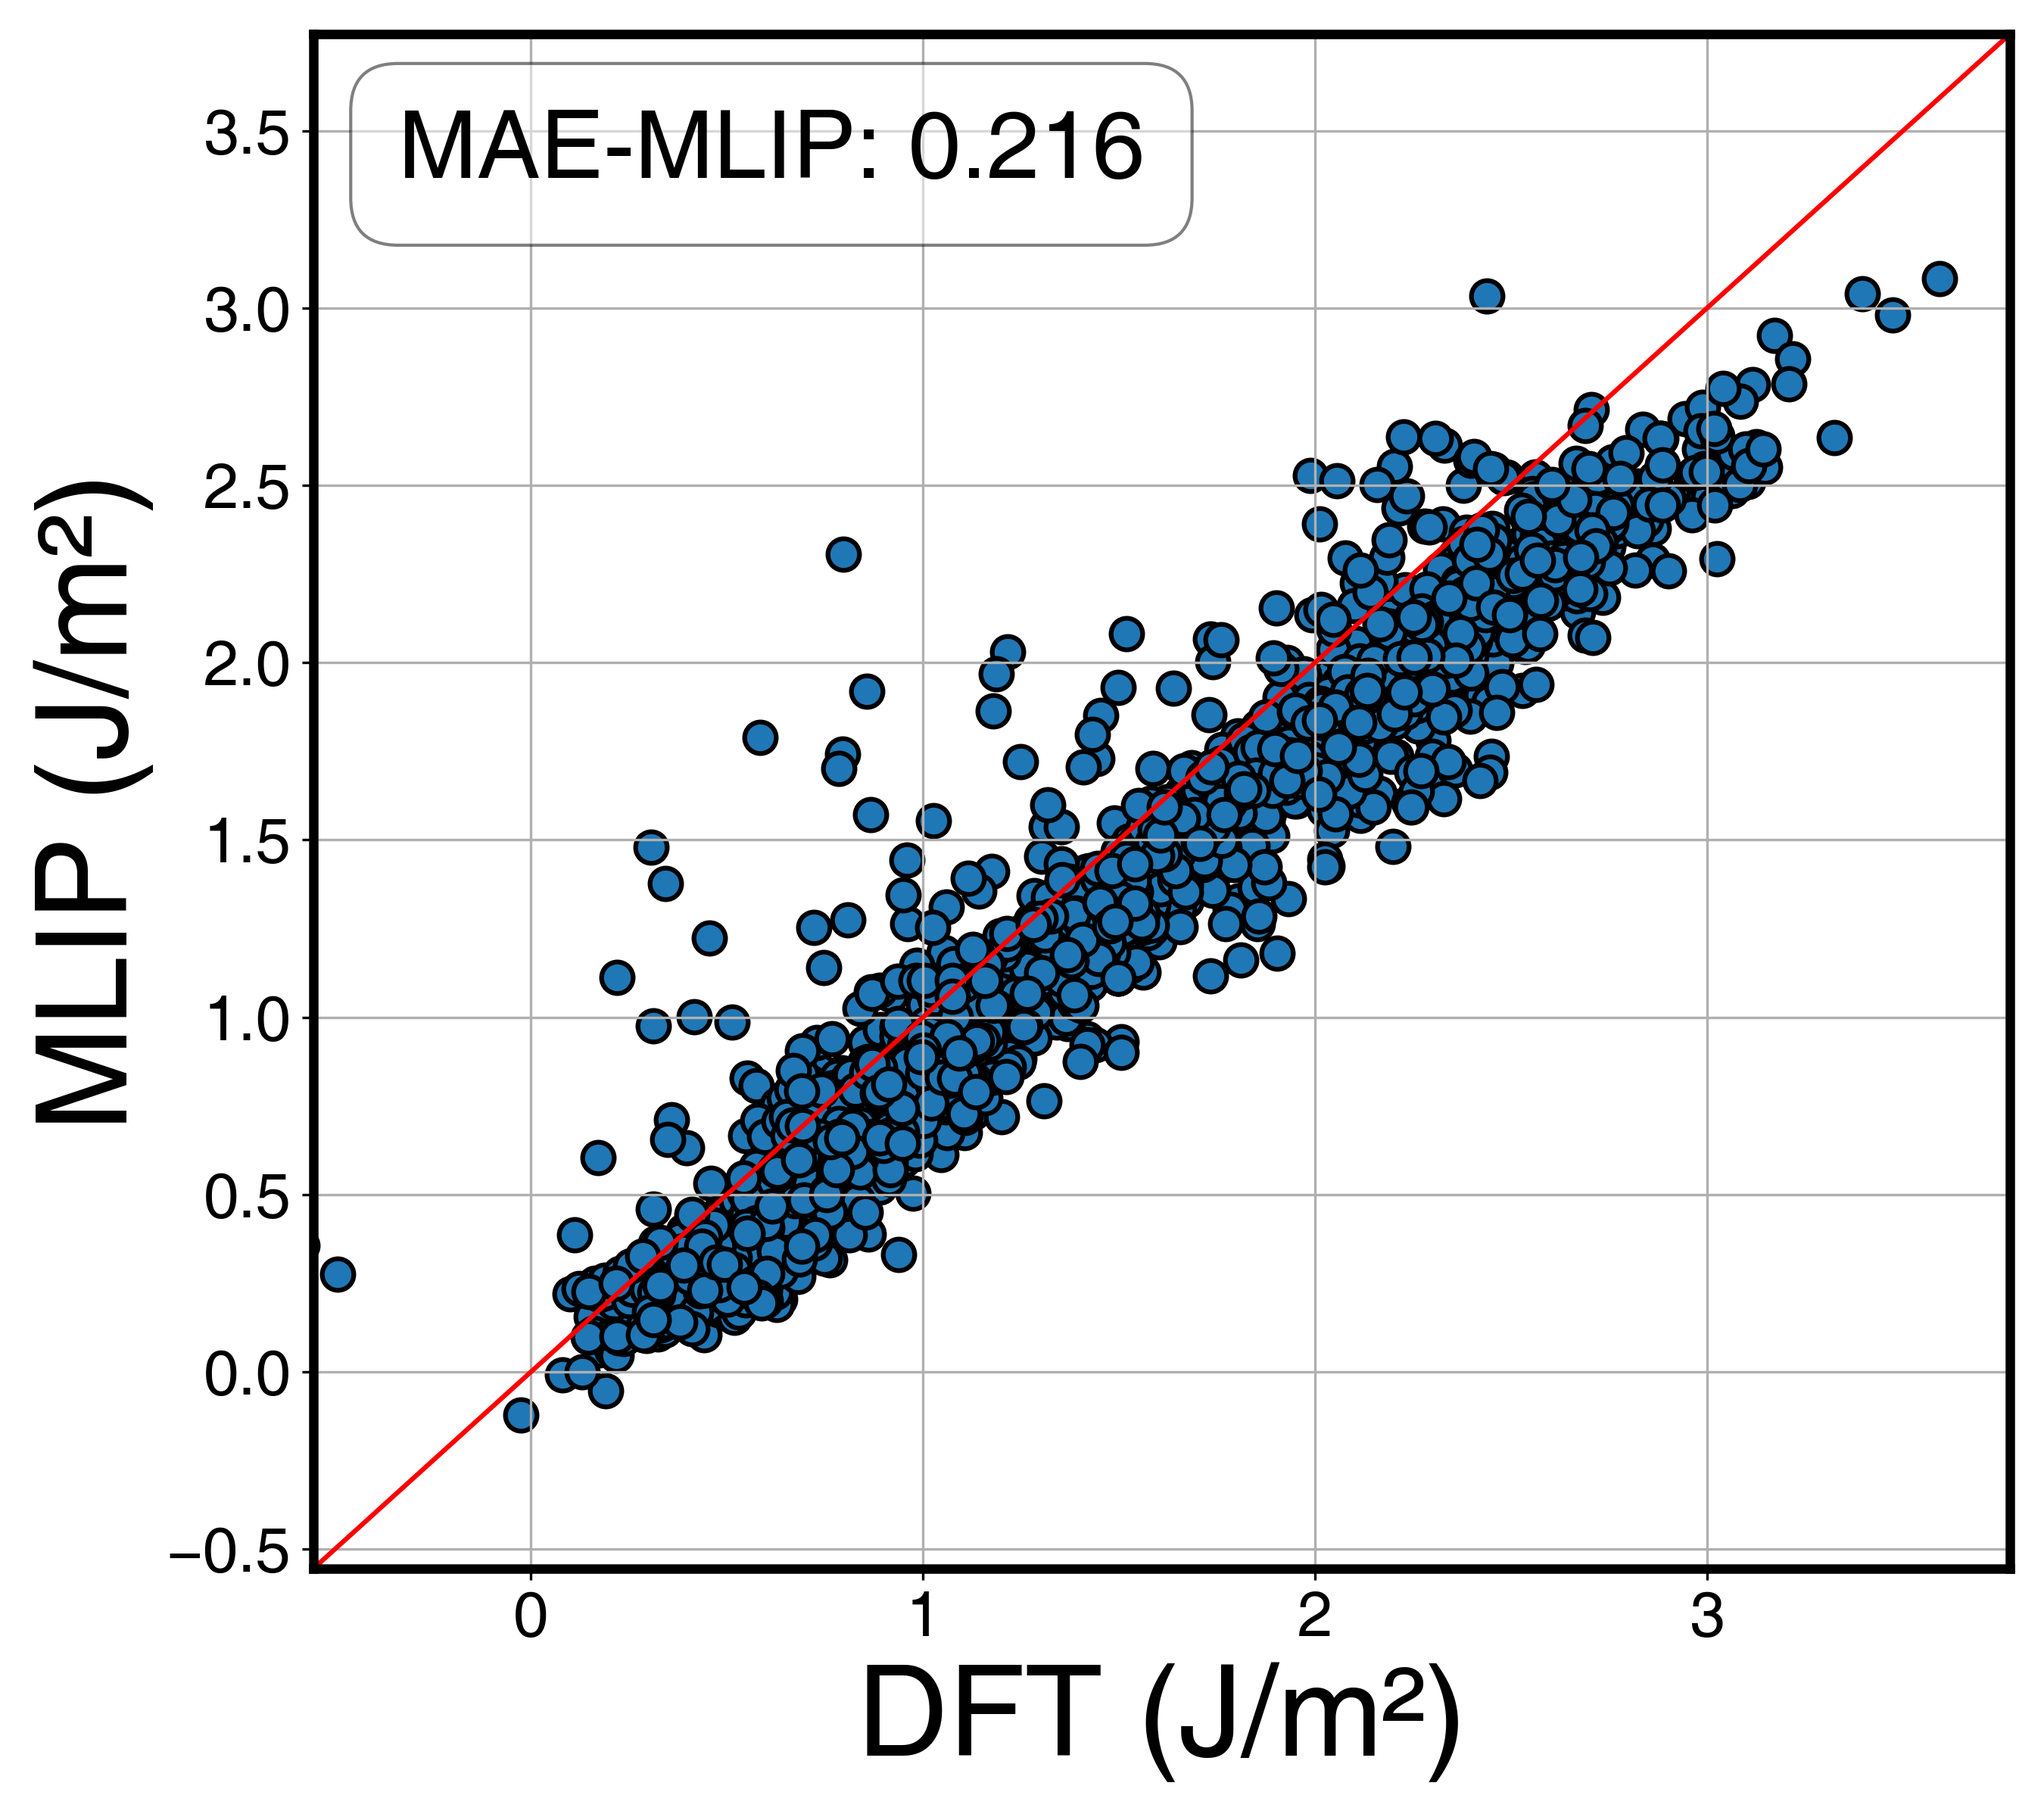
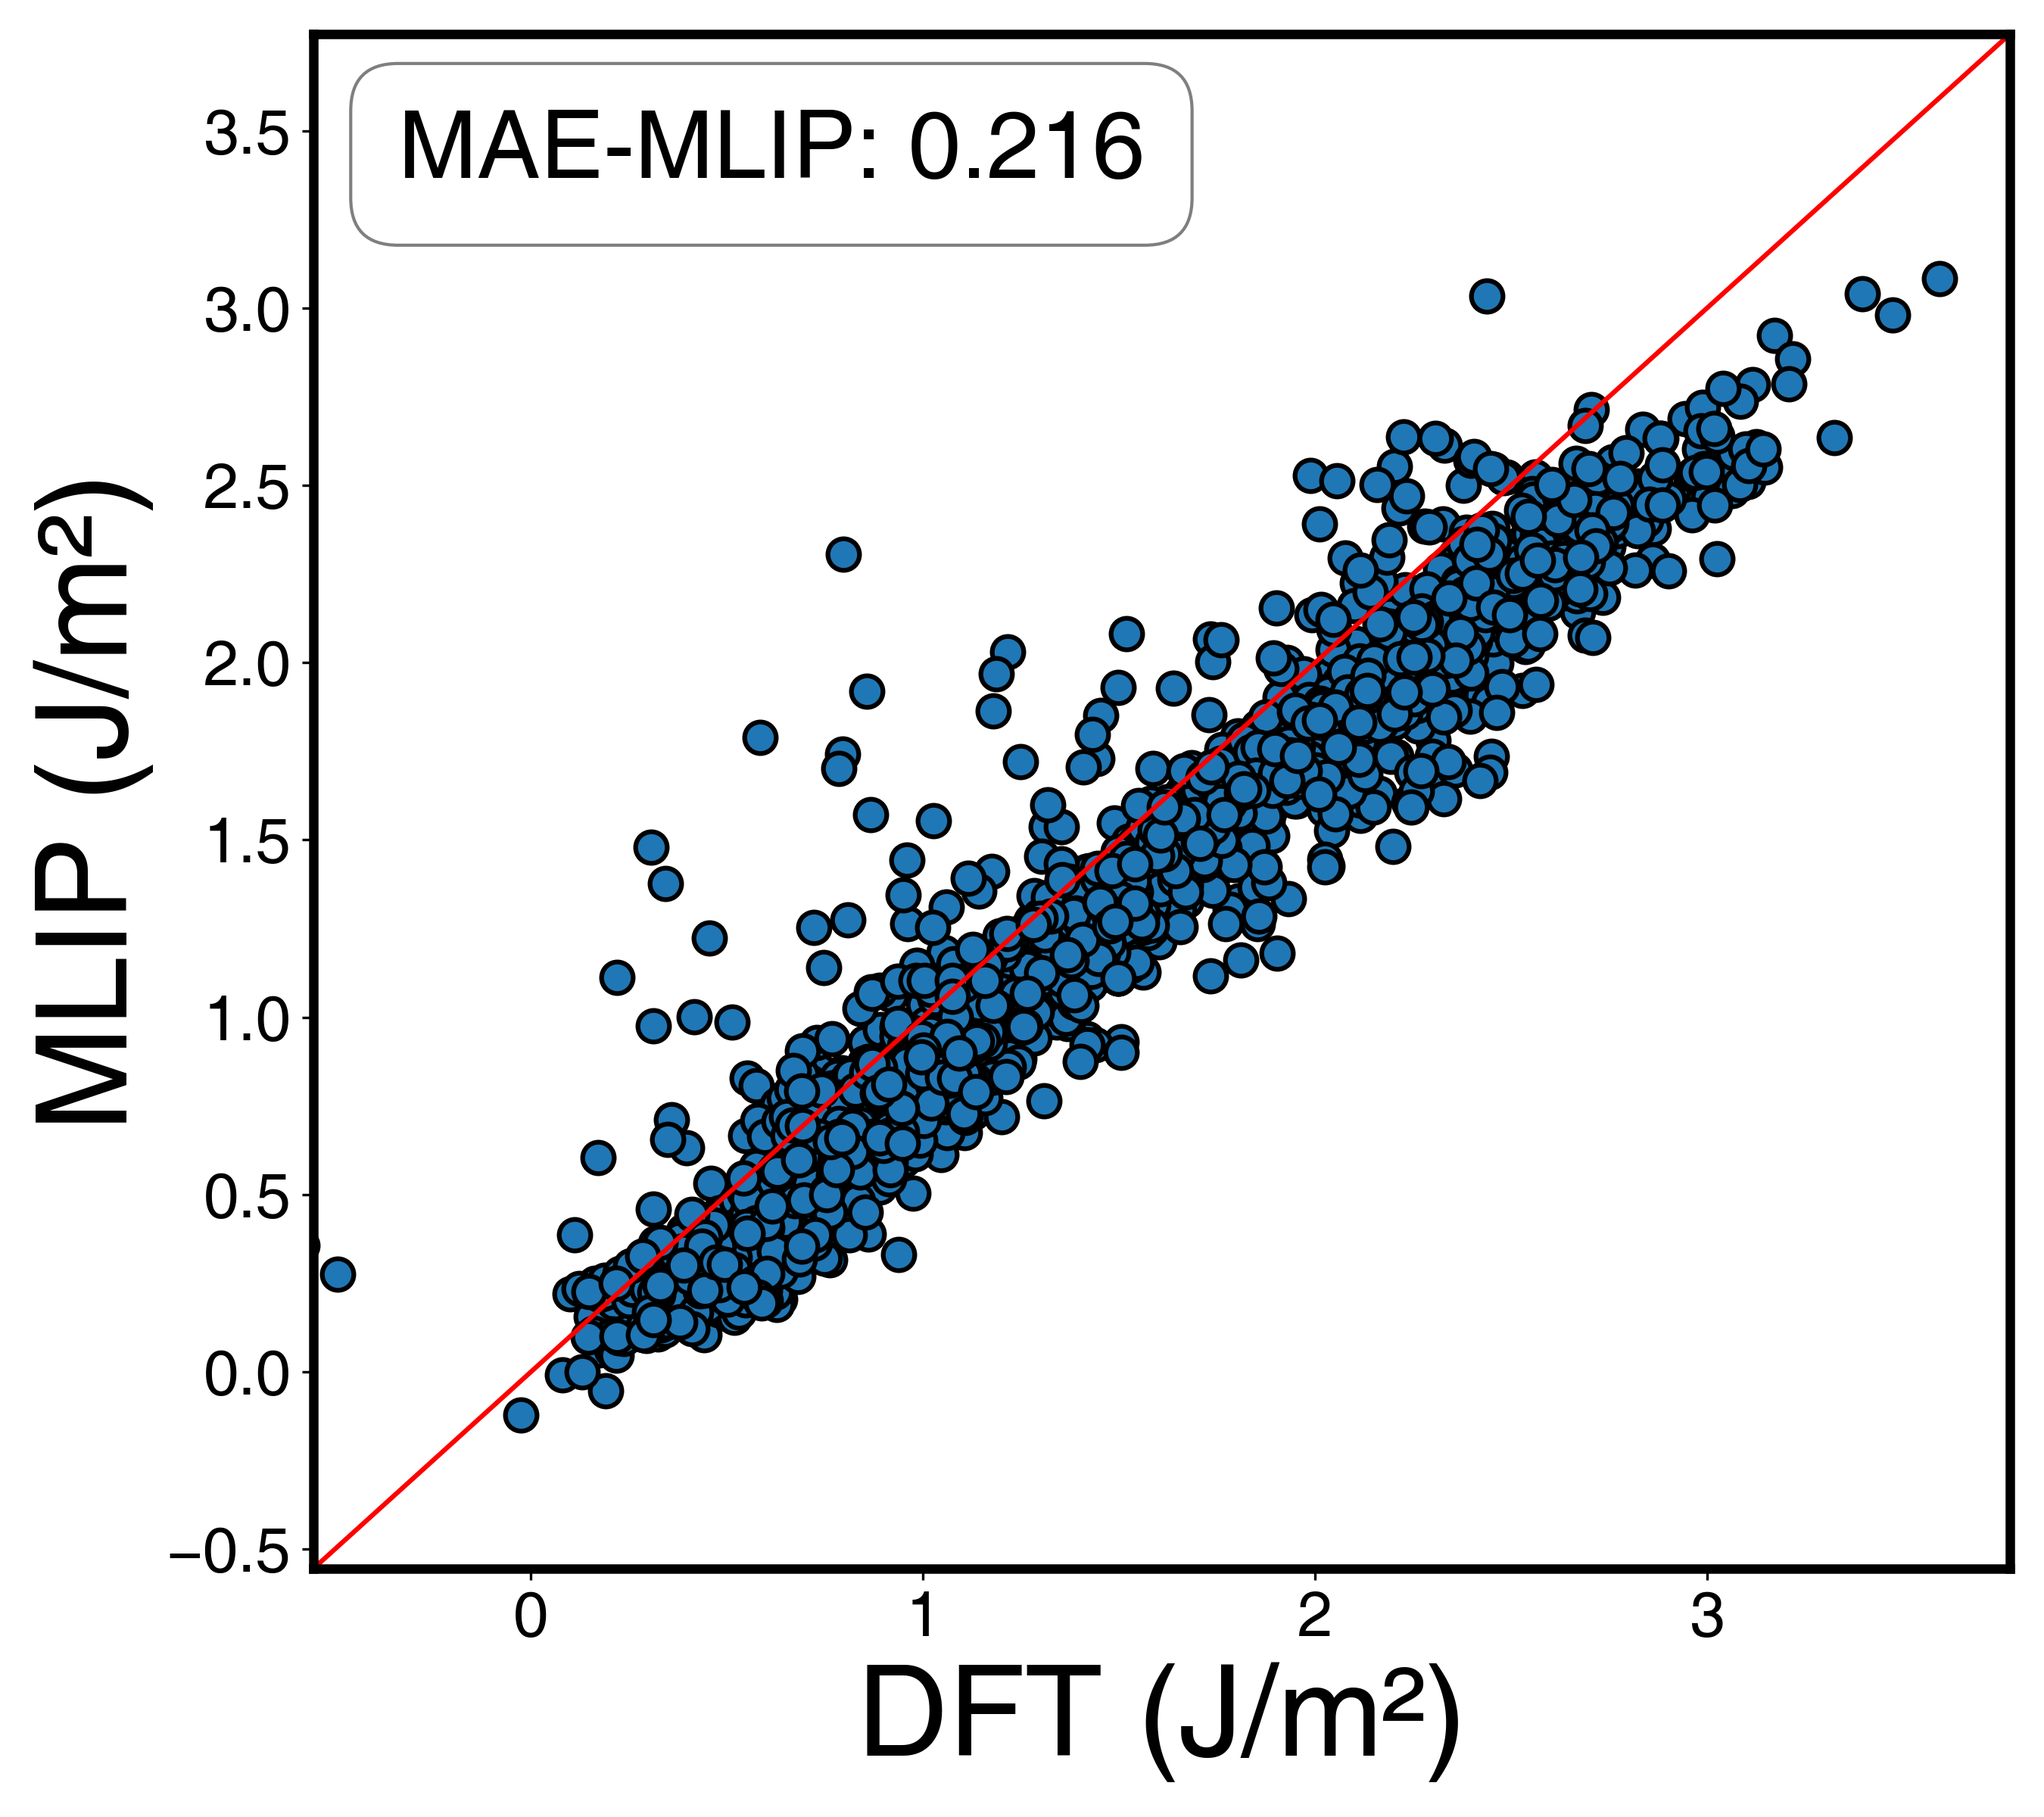
Improve README documentation and implement grid option for RelativeEnergyAnalysis
- Remove redundant Output Files hierarchy sections from README for cleaner documentation
- Add Time/step column to performance comparison tables with computational cost metrics
- Add ADwT/AMDwT explanations and metrics to Individual MLIP sheets
- Increase image widths across all figures for better readability and quality
- Implement grid option for RelativeEnergyAnalysis matching AdsorptionAnalysis functionality
- Add grid parameter to RELATIVE_ANALYSIS_DEFAULTS configuration
- Update RelativeEnergyAnalysis class with grid toggle and documentation
- Remove CLAUDE.md and CLAUDE_SUGGESTIONS.md from git tracking

diff --git a/catbench/relative/analysis.py b/catbench/relative/analysis.py
@@ -38,6 +38,7 @@ class RelativeEnergyAnalysis:
         mark_size (int, optional): Marker size for plots. Default: 100
         linewidths (float, optional): Line width for plots. Default: 1.5
         min/max (float, optional): Manual axis limits for plots
+        grid (bool, optional): Show grid on parity plots. Default: False
         mlip_name_map (dict, optional): Mapping from raw MLIP names to display names for plots/Excel. Default: {} (no mapping)
     """
     
@@ -65,6 +66,7 @@ class RelativeEnergyAnalysis:
         self.specific_color = kwargs.get("specific_color", get_default("specific_color", RELATIVE_ANALYSIS_DEFAULTS))
         self.min_value = kwargs.get("min", get_default("min", RELATIVE_ANALYSIS_DEFAULTS))
         self.max_value = kwargs.get("max", get_default("max", RELATIVE_ANALYSIS_DEFAULTS))
+        self.grid = kwargs.get("grid", get_default("grid", RELATIVE_ANALYSIS_DEFAULTS))
         # Display name mapping for MLIP names (for plots/Excel display only)
         self.mlip_name_map = kwargs.get("mlip_name_map", get_default("mlip_name_map", RELATIVE_ANALYSIS_DEFAULTS)) or {}
         
@@ -140,7 +142,10 @@ class RelativeEnergyAnalysis:
         ax.set_xlim(min_value, max_value)
         ax.set_ylim(min_value, max_value)
         ax.plot([min_value, max_value], [min_value, max_value], "r-")
-        ax.grid(True)
+        if self.grid:
+            ax.grid(True)
+        else:
+            ax.grid(False)
         
         for spine in ax.spines.values():
             spine.set_linewidth(3)

diff --git a/catbench/config.py b/catbench/config.py
@@ -121,6 +121,7 @@ RELATIVE_ANALYSIS_DEFAULTS = {
     "specific_color": "#2077B5",
     "min": None,
     "max": None,
+    "grid": False,
 }
 
 # ============================================================================

diff --git a/README.md b/README.md
@@ -279,27 +279,7 @@ This generates stacked area charts showing how anomaly detection rates change wi
 
 ### Output Files
 
-```
-result/
-├── YourMLIP/
-│   ├── gases/           # Gas molecule calculations
-│   ├── log/             # Optimization logs
-│   ├── traj/            # Trajectory files
-│   ├── YourMLIP_result.json         # All calculation results
-│   ├── YourMLIP_gases.json          # Gas energies
-│   └── YourMLIP_anomaly_detection.json  # Anomaly flags
-└── plot/
-    └── YourMLIP/
-        ├── mono/                     # Single parity plots (all adsorbates combined)
-        │   ├── YourMLIP_parity.png
-        │   └── YourMLIP_normal_parity.png
-        ├── multi/                    # Multiple parity plots (by adsorbate)
-        │   ├── YourMLIP_parity.png
-        │   └── YourMLIP_normal_parity.png
-        └── threshold_sensitivity/    # Threshold sensitivity analysis plots
-            ├── disp_thrs_sensitivity.png
-            └── bond_threshold_sensitivity.png
-```
+Results are automatically saved to organized directories with comprehensive analysis reports, parity plots, and Excel summaries containing detailed performance metrics.
 
 #### 1. Parity Plot Analysis
 
@@ -308,8 +288,8 @@ CatBench generates comprehensive parity plots for visual assessment of MLIP perf
 <div align="center">
 <table>
 <tr>
-<td><img src="assets/mono_plot.png" alt="Mono Plot" width="500"/></td>
-<td><img src="assets/multi_plot.png" alt="Multi Plot" width="500"/></td>
+<td><img src="assets/mono_plot.png" alt="Mono Plot" width="650"/></td>
+<td><img src="assets/multi_plot.png" alt="Multi Plot" width="650"/></td>
 </tr>
 <tr>
 <td align="center"><strong>Mono Plot</strong><br/>All reactions combined in a single parity plot</td>
@@ -327,18 +307,18 @@ MLIP-to-MLIP performance overview with key metrics:
 
 <div style="font-size: 11px;">
 
-| MLIP | Normal (%) | Anomaly (%) | MAE_total (eV) | MAE_normal (eV) | ADwT (%) | AMDwT (%) |
-|------|------------|-------------|----------------|-----------------|----------|-----------|
-| MLIP_A | 77.25 | 14.39 | 1.118 | 0.316 | 77.98 | 84.71 |
-| MLIP_B | 74.22 | 16.84 | 0.667 | 0.512 | 69.66 | 80.80 |
-| MLIP_C | 80.18 | 13.51 | 0.917 | 0.241 | 78.97 | 86.79 |
-| MLIP_D | 73.20 | 16.26 | 0.738 | 0.413 | 71.27 | 81.03 |
-| MLIP_E | 78.45 | 12.87 | 0.892 | 0.298 | 76.15 | 83.92 |
-| ... | ... | ... | ... | ... | ... | ... |
+| MLIP | Normal (%) | Anomaly (%) | MAE_total (eV) | MAE_normal (eV) | ADwT (%) | AMDwT (%) | Time/step (ms) |
+|------|------------|-------------|----------------|-----------------|----------|-----------|----------------|
+| MLIP_A | 77.25 | 14.39 | 1.118 | 0.316 | 77.98 | 84.71 | 125.3 |
+| MLIP_B | 74.22 | 16.84 | 0.667 | 0.512 | 69.66 | 80.80 | 89.7 |
+| MLIP_C | 80.18 | 13.51 | 0.917 | 0.241 | 78.97 | 86.79 | 156.8 |
+| MLIP_D | 73.20 | 16.26 | 0.738 | 0.413 | 71.27 | 81.03 | 203.4 |
+| MLIP_E | 78.45 | 12.87 | 0.892 | 0.298 | 76.15 | 83.92 | 142.1 |
+| ... | ... | ... | ... | ... | ... | ... | ... |
 
 </div>
 
-*Direct performance comparison across all benchmarked MLIPs with comprehensive metrics*
+*Direct performance comparison across all benchmarked MLIPs with comprehensive metrics including ADwT (Accuracy within Threshold) and AMDwT (Anomaly-free Mean Deviation within Threshold)*
 
 ##### **Anomaly Analysis Sheet**
 Detailed breakdown of calculation anomalies by category:
@@ -362,14 +342,14 @@ Adsorbate-specific performance for each MLIP (example from MLIP_A sheet):
 
 <div style="font-size: 11px;">
 
-| Adsorbate | Normal | Anomaly | MAE_normal (eV) | MAE_total (eV) |
-|-----------|--------|---------|-----------------|----------------|
-| H | 1,247 | 89 | 0.234 | 0.891 |
-| OH | 1,156 | 124 | 0.298 | 1.045 |
-| O | 1,089 | 156 | 0.387 | 1.234 |
-| CO | 978 | 203 | 0.445 | 1.567 |
-| NH3 | 892 | 167 | 0.512 | 1.789 |
-| ... | ... | ... | ... | ... |
+| Adsorbate | Normal | Anomaly | MAE_total (eV) | MAE_normal (eV) | ADwT (%) | AMDwT (%) |
+|-----------|--------|---------|----------------|-----------------|----------|-----------|
+| H | 1,247 | 89 | 0.891 | 0.234 | 89.3 | 93.4 |
+| OH | 1,156 | 124 | 1.045 | 0.298 | 82.7 | 87.1 |
+| O | 1,089 | 156 | 1.234 | 0.387 | 78.5 | 82.9 |
+| CO | 978 | 203 | 1.567 | 0.445 | 74.2 | 78.6 |
+| NH3 | 892 | 167 | 1.789 | 0.512 | 71.8 | 76.3 |
+| ... | ... | ... | ... | ... | ... | ... |
 
 </div>
 
@@ -382,8 +362,8 @@ CatBench provides automated threshold sensitivity analysis to optimize anomaly d
 <div align="center">
 <table>
 <tr>
-<td><img src="assets/disp_thrs_sensitivity.png" alt="Displacement Threshold Sensitivity" width="500"/></td>
-<td><img src="assets/bond_threshold_sensitivity.png" alt="Bond Length Threshold Sensitivity" width="500"/></td>
+<td><img src="assets/disp_thrs_sensitivity.png" alt="Displacement Threshold Sensitivity" width="700"/></td>
+<td><img src="assets/bond_threshold_sensitivity.png" alt="Bond Length Threshold Sensitivity" width="700"/></td>
 </tr>
 <tr>
 <td align="center"><strong>Displacement Threshold Analysis</strong><br/>Impact of displacement threshold on anomaly detection rates</td>
@@ -391,14 +371,6 @@ CatBench provides automated threshold sensitivity analysis to optimize anomaly d
 </tr>
 </table>
 </div>
-
-*These stacked area charts help optimize threshold parameters for your specific catalytic systems*
-
-#### 4. Additional Analysis Features
-
-- **Cost Analysis**: Computational efficiency metrics and performance scaling
-- **Reproducibility Testing**: Multiple calculator runs ensure numerical stability  
-- **Statistical Metrics**: MAE, anomaly rates, ADwT, and AMDwT for comprehensive evaluation
 
 ## Relative Energy Benchmarking
 
@@ -501,22 +473,12 @@ analysis.analysis()
 
 #### Output Files
 
-```
-result/
-└── YourMLIP/
-    ├── YourMLIP_surface_benchmark.json  # Calculation results
-    └── YourMLIP_surface_benchmark.xlsx  # Excel report
-
-plot/
-├── YourMLIP/
-│   └── surface_parity.png              # Parity plot
-└── surface_comparison.png               # Multi-MLIP comparison
-```
+Results include comprehensive Excel reports with performance metrics and publication-ready parity plots for visual comparison.
 
 #### Surface Energy Analysis Examples
 
 <div align="center">
-<img src="assets/surface_parity.png" alt="Surface Energy Parity Plot" width="600"/>
+<img src="assets/surface_parity.png" alt="Surface Energy Parity Plot" width="750"/>
 </div>
 
 *Surface energy parity plot showing MLIP performance against DFT references for various metal surfaces*
@@ -625,17 +587,7 @@ analysis.analysis()
 
 #### Output Files
 
-```
-result/
-└── YourMLIP/
-    ├── YourMLIP_formation_benchmark.json  # Calculation results
-    └── YourMLIP_formation_benchmark.xlsx  # Excel report
-
-plot/
-├── YourMLIP/
-│   └── formation_parity.png              # Parity plot
-└── formation_comparison.png               # Multi-MLIP comparison
-```
+Results include detailed Excel reports with formation energy metrics and comparative parity plots across different MLIPs.
 
 ## Equation of State (EOS) Benchmarking
 
@@ -720,30 +672,14 @@ eos_analysis = EOSAnalysis()
 eos_analysis.analysis()
 ```
 
-This provides:
-- **Bulk modulus (B0) comparison**: MLIP vs DFT using Birch-Murnaghan equation of state
-- **Equilibrium volume (V0) accuracy**: Comparison of predicted equilibrium volumes
-- **EOS curve fitting quality**: Assessment of complete pressure-volume relationship
-
 ### Output Files
 
-```
-result/
-└── YourMLIP/
-    └── YourMLIP_eos_benchmark.json     # Calculation results
-
-plot/
-├── YourMLIP/
-│   ├── material_1_eos.png              # Individual material EOS curves
-│   ├── material_2_eos.png
-│   └── material_3_eos.png
-└── eos_comparison.png                  # Multi-MLIP comparison
-```
+Comprehensive analysis results including individual material EOS curves and multi-MLIP comparison reports with Birch-Murnaghan equation fitting parameters.
 
 #### EOS Analysis Examples
 
 <div align="center">
-<img src="assets/EOS_example.png" alt="EOS Analysis Example" width="600"/>
+<img src="assets/EOS_example.png" alt="EOS Analysis Example" width="750"/>
 </div>
 
 *EOS curve comparison showing MLIP vs DFT results fitted with Birch-Murnaghan equation*
@@ -863,6 +799,7 @@ The Excel report includes comprehensive EOS analysis with Birch-Murnaghan equati
 | `specific_color` | Color for plots | str | "#2077B5" |
 | `min` | Minimum value for plot axes | float | None |
 | `max` | Maximum value for plot axes | float | None |
+| `grid` | Show grid on plots | bool | False |
 | `font_setting` | Custom font settings | list[str] | False |
 
 ### EOSCalculation
